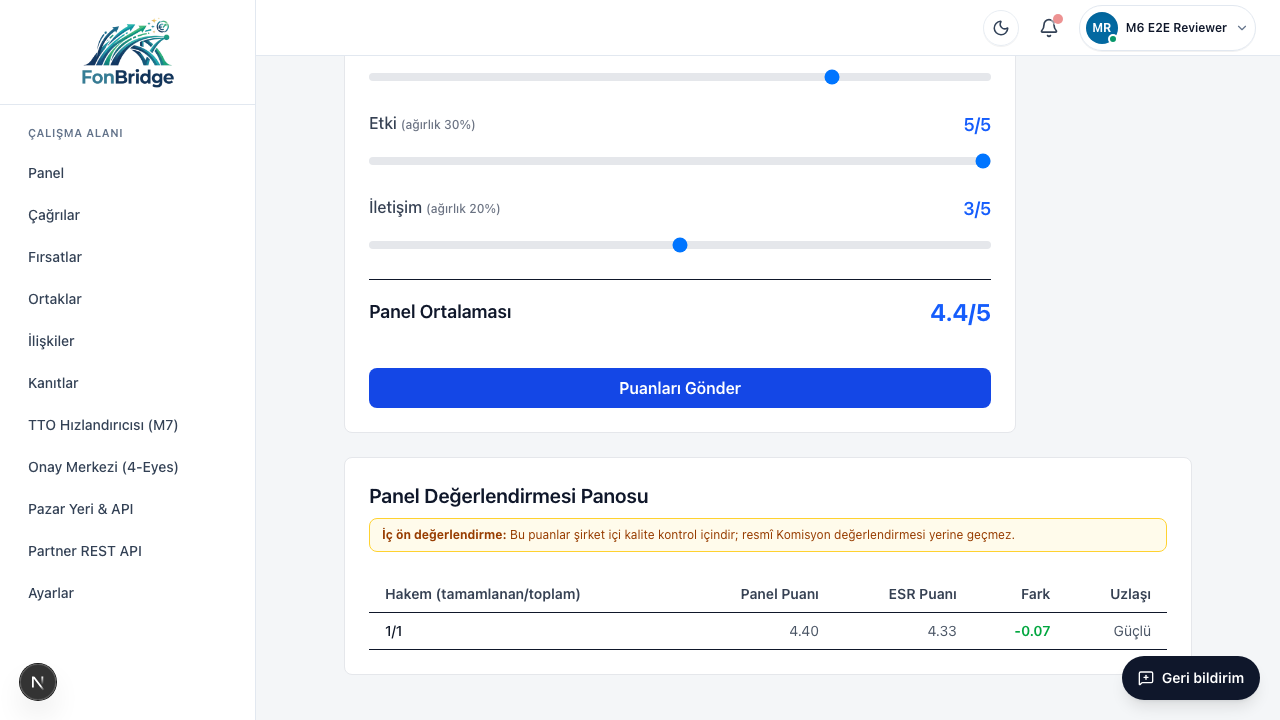
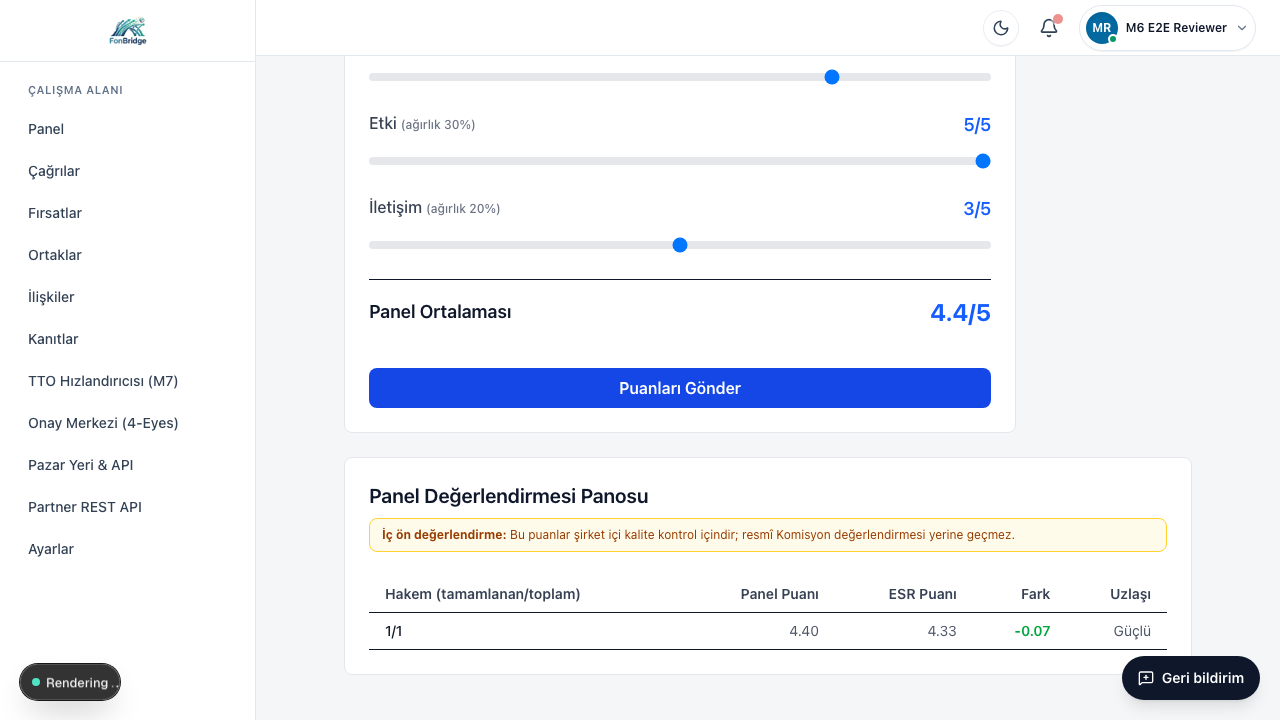
fix(m6-e2e): grant the fixture tenant the plan that opens Evaluator Lens
The M6 panel spec was red before it ever reached a slider: the fixture only
switched ModuleState to ON, but the module gate is two locks — the tenant's
plan has to grant M6 as well. With no Subscription row the tenant fell back to
the entry tier and the page rendered "Evaluator Lens modülü aboneliğinizin
kapsamı dışında" instead of the form.

The card blamed Playwright's fill() on the range input; measured, that claim is
false — the labels move to 5/4/5/3 and the preview average to 4.4/5. No
assertion was touched and no product code changed; only the fixture gained the
`pro` subscription a real tenant has, matching scripts/seed-relationship-e2e.ts,
with the matching delete in --rollback. Seeding twice leaves one row.

Claude-Session: https://claude.ai/code/session_01DQiFyqBT1nCh3CY4pPa34j

diff --git a/scripts/seed-m6-e2e.ts b/scripts/seed-m6-e2e.ts
@@ -56,6 +56,17 @@ export async function seed() {
     },
   });
 
+  // The gate is two locks, not one: the plan has to grant M6 *and* the tenant has to
+  // have switched it on. Without a subscription row the tenant falls back to the
+  // entry tier, and the panel page answers "Evaluator Lens modülü aboneliğinizin
+  // kapsamı dışında" instead of rendering the form. `pro` is the cheapest plan that
+  // grants M6 (src/lib/billing/catalog.ts PLAN_GRANTS).
+  await prisma.subscription.upsert({
+    where: { tenantId: M6_E2E.tenantId },
+    update: { planId: 'pro', status: 'ACTIVE' },
+    create: { tenantId: M6_E2E.tenantId, planId: 'pro', status: 'ACTIVE' },
+  });
+
   // The M6 pages are behind the module gate (src/lib/modules/guard.tsx), so the
   // fixture tenant has to be granted the module the same way a real tenant is —
   // otherwise the test signs in and lands on the "module is closed" screen.
@@ -151,6 +162,7 @@ export async function rollback() {
   await prisma.proposal.deleteMany({ where: { id: M6_E2E.proposalId } });
   await prisma.opportunity.deleteMany({ where: { id: M6_E2E.opportunityId } });
   await prisma.moduleState.deleteMany({ where: { tenantId: M6_E2E.tenantId } });
+  await prisma.subscription.deleteMany({ where: { tenantId: M6_E2E.tenantId } });
   await prisma.membership.deleteMany({ where: { userId: M6_E2E.userId, tenantId: M6_E2E.tenantId } });
   await prisma.user.deleteMany({ where: { id: M6_E2E.userId } });
   await prisma.workspace.deleteMany({ where: { id: M6_E2E.workspaceId } });

diff --git a/docs/agent-results/TASK-MTQZ9767FOZMB-geli-tirici.md b/docs/agent-results/TASK-MTQZ9767FOZMB-geli-tirici.md
@@ -1,0 +1,127 @@
+# TASK-MTQZ9767FOZMB — M6 kriter slider'ı e2e (BE-EN / geli-tirici)
+
+## 1. Ne yapıldı
+
+**Kart bayattı.** Kartın iddiası: "`fill()` sonrası etiket 3/5'te kalıyor". Önce ölçtüm — bu iddia
+DOĞRU DEĞİL. `fill()` React'in kontrollü `input[type=range]`'inde sorunsuz çalışıyor; etiketler
+5/5, 4/5, 5/5, 3/5 oluyor ve önizleme ortalaması 4.4/5'e gidiyor (aşağıdaki 02-form-filled.png).
+
+Testin gerçek kırmızısı **daha erken** bir noktadaydı: form hiç render edilmiyordu, çünkü fixture
+kiracısının **plan hakkı yoktu**. Ekranda çıkan: "Evaluator Lens modülü aboneliğinizin kapsamı
+dışında. Şu planlarda yer alıyor: Pro, Ultra."
+
+Kök neden: M6 kapısı **iki kilit**. `ModuleState = ON` (kiracı açmış) **ve** planın M6'yı veriyor
+olması (`plansGrantingModule('M6')` → pro, ultra). `scripts/seed-m6-e2e.ts` yalnız birincisini
+kuruyordu; `Subscription` satırı hiç yaratılmıyordu, kiracı giriş katmanına düşüyor ve plan kapısı
+sayfayı kapatıyordu.
+
+Düzeltme: fixture'a gerçek bir kiracıdaki gibi `pro`/`ACTIVE` abonelik eklendi ve rollback'e
+karşılığı yazıldı. Desen icat edilmedi — `scripts/seed-relationship-e2e.ts:89` ile aynı.
+**Test gevşetilmedi**; hiçbir assertion değişmedi, spec dosyasına dokunulmadı.
+
+## 2. Kanıt
+
+### 2.1 ÖNCE — kırmızı (düzeltmeden önceki gerçek çıktı)
+
+```
+Running 1 test using 1 worker
+[seed-m6-e2e] ready — tenant=m6-e2e-tenant proposal=m6-e2e-proposal evaluation=m6-e2e-evaluation criteria=4 clearedScores=0
+  ✘  1 [chromium] › tests/e2e/m6-evaluator.spec.ts:48:7 › ... a seated reviewer scores a proposal ... (11.7s)
+
+    Error: expect(locator).toBeVisible() failed
+    Locator: getByRole('main').getByTestId('m6-evaluator-form')
+    Expected: visible
+    Error: element(s) not found
+      > 75 |     await expect(form).toBeVisible();
+```
+
+Aynı koşunun `error-context.md` DOM anlık görüntüsü — kapının kendisi:
+
+```yaml
+- main:
+  - alert:
+    - heading "Bu modül şu anda kullanılamıyor" [level=1]
+    - paragraph: "Evaluator Lens modülü aboneliğinizin kapsamı dışında. Şu planlarda yer alıyor: Pro, Ultra."
+```
+
+### 2.2 SONRA — yeşil (tüm spec)
+
+```
+Running 4 tests using 1 worker
+[seed-m6-e2e] ready — tenant=m6-e2e-tenant proposal=m6-e2e-proposal evaluation=m6-e2e-evaluation criteria=4 clearedScores=0
+  ✓  1 › m6-evaluator.spec.ts:48:7  › a seated reviewer scores a proposal and sees it on the dashboard (1.6s)
+  ✓  2 › m6-evaluator.spec.ts:134:7 › the English locale renders the English M6 copy (1.2s)
+  ✓  3 › m6-evaluator.spec.ts:171:9 › the Evaluator Lens page states it is an internal pre-assessment (tr) (1.5s)
+[seed-m6-e2e] rolled back
+  ✓  4 › m6-evaluator.spec.ts:171:9 › the Evaluator Lens page states it is an internal pre-assessment (en) (1.1s)
+
+  4 passed (6.3s)
+```
+
+### 2.3 Slider'ın gerçekten hareket ettiğinin görsel kanıtı
+
+`docs/agent-results/TASK-MTQ5ZF5ZRU5SM-screenshots/02-form-filled.png` (bu koşuda yeniden yazıldı,
+22:21) — Yenilikçilik **5/5**, Uygulanabilirlik **4/5**, Etki **5/5**, İletişim **3/5**,
+Panel Ortalaması **4.4/5**. Yani `fill()` etiketi 3/5'te bırakmıyor; kart bu noktada yanlıştı.
+(Ekran görüntüsü yolu spec'in içinde sabit `TASK-MTQ5ZF5ZRU5SM-screenshots` — değiştirmedim,
+spec'e dokunmama kuralı gereği.)
+
+### 2.4 Idempotency (additive fixture — iki kez koşma kanıtı)
+
+```
+$ npx tsx scripts/seed-m6-e2e.ts && npx tsx scripts/seed-m6-e2e.ts
+[seed-m6-e2e] ready — tenant=m6-e2e-tenant ... criteria=4 clearedScores=0
+[seed-m6-e2e] ready — tenant=m6-e2e-tenant ... criteria=4 clearedScores=0
+after 2x seed -> subscription: pro ACTIVE | moduleStates: 1 | criteria: 4
+
+$ npx tsx scripts/seed-m6-e2e.ts --rollback
+[seed-m6-e2e] rolled back
+after rollback -> tenant rows: 0 | subscription rows: 0
+```
+
+İki kez koşmak satır çoğaltmıyor; geri-alma yolu (`--rollback`) eklenen aboneliği de temizliyor.
+
+### 2.5 Kapılar
+
+```
+$ pnpm typecheck
+$ tsc --noEmit        # (çıktı yok = temiz)
+
+$ npx eslint scripts/seed-m6-e2e.ts tests/e2e/m6-evaluator.spec.ts src/modules/m6
+                      # (çıktı yok = temiz)
+```
+
+## 3. Değişen dosyalar
+
+- `scripts/seed-m6-e2e.ts` — `Subscription` (`pro`/`ACTIVE`) upsert'ü + rollback'te karşılığı
+  (`prisma.subscription.deleteMany`). Toplam +12 satır, başka hiçbir şey değişmedi.
+
+Dokunulmayan (kasıtlı): `tests/e2e/m6-evaluator.spec.ts` (tek assertion bile gevşetilmedi),
+`src/modules/m6/**` (ürün kodunda hata yoktu — slider doğru çalışıyor).
+
+## 4. Riskler
+
+- Fixture artık `Plan` kataloğundaki `pro` id'sine bağlı. `pro` yeniden adlandırılır ya da M6'yı
+  vermeyi bırakırsa test yine kapıda durur — ama kırmızı mesajı doğrudan sebebi söylüyor.
+- Test yalnız `m6-e2e-tenant` kiracısının aboneliğini yazıyor/siliyor; `demo-tenant` ya da başka
+  bir kiracıya dokunmuyor, yıkıcı işlem yok.
+- e2e'yi mevcut 3000 dev sunucusunda koşarken `E2E_BASE_URL=http://localhost:3000/tr/giris`
+  kullanmak zorunda kaldım — sebebi §5'teki başkasına ait hata.
+
+## 5. Başka kartlara ait, düzeltmediğim kusurlar (yalnız bildirim)
+
+- **`src/app/[locale]/admin/blog/actions.ts:32`** (ve `client.tsx:51-52`) — blog kaydının
+  varsayılan görseli `https://images.unsplash.com/...`; `next.config.ts` içinde `images` alanı hiç
+  yok, dolayısıyla bu hostname allowlist'te değil. Sonuç: **`/tr` ana sayfası 500 dönüyor**
+  ("Invalid src prop ... hostname images.unsplash.com is not configured"). Bu, Playwright'ın
+  `webServer.url` sağlık kontrolünü de düşürüyor: `reuseExistingServer` çalışmıyor, Playwright
+  3000'i yeniden başlatmayı deniyor ve `EADDRINUSE` ile ölüyor — yani **tüm e2e kapısı bu tek
+  hata yüzünden kapalı**. Benim dosyam değil, düzeltmedim.
+
+## 6. Sonraki adım
+
+- Yukarıdaki `/tr` 500'ü sahibine gitsin: `next.config.ts`'e `images.remotePatterns` eklemek ya da
+  varsayılan görseli yerel bir asset yapmak. O düzelene kadar e2e koşarken
+  `E2E_BASE_URL=http://localhost:3000/tr/giris` gerekiyor.
+- Diğer e2e fixture'ları da aynı iki-kilit hatasını taşıyor olabilir: `ModuleState` yazıp
+  `Subscription` yazmayan seed'ler taranmalı.

diff --git a/.agentspace/memory/agents/geli-tirici/fabrika-module-gate-is-two-locks.md b/.agentspace/memory/agents/geli-tirici/fabrika-module-gate-is-two-locks.md
@@ -1,0 +1,30 @@
+---
+name: fabrika-module-gate-is-two-locks
+description: Fabrika modül kapısı iki kilit — ModuleState=ON VE planın modülü vermesi; e2e seed'i yalnız birincisini kurarsa sayfa "aboneliğinizin kapsamı dışında" der
+metadata:
+  type: project
+  updatedAt: 2026-09-07
+---
+
+Fabrika'da bir modül sayfasına ulaşmak için İKİ kilit birden açık olmalı:
+
+1. `ModuleState(tenantId, moduleId) = ON` — kiracı modülü açmış,
+2. kiracının `Subscription.planId`'si o modülü veren bir plan — `plansGrantingModule('M6')` → `pro`, `ultra`.
+
+`Subscription` satırı YOKSA kiracı giriş katmanına düşer ve plan kapısı sayfayı kapatır:
+"<Modül> modülü aboneliğinizin kapsamı dışında. Şu planlarda yer alıyor: Pro, Ultra."
+
+Bu, e2e fixture'larında sessiz bir tuzak: seed `ModuleState`'i yazar, test "element not found"
+ile düşer ve hata **testin kendi adımında değil**, ondan önceki render'da gerçekleşir — bu yüzden
+kart/bug raporu yanlış adımı suçlar (TASK-MTQZ9767FOZMB'de kart "slider fill() çalışmıyor" diyordu,
+gerçek sebep buydu; slider sapasağlamdı).
+
+Doğru desen (icat etme, kopyala): `scripts/seed-relationship-e2e.ts` — tenant upsert'ünün hemen
+ardından `prisma.subscription.upsert({ where:{tenantId}, update:{planId:'pro',status:'ACTIVE'},
+create:{...} })`, ve rollback'e `subscription.deleteMany({ where:{tenantId} })`.
+
+Teşhis kısayolu: Playwright fail'inde `test-results/<...>/error-context.md` içindeki YAML DOM
+anlık görüntüsünü oku — `main > alert > heading "Bu modül şu anda kullanılamıyor"` görüyorsan
+sorun testte değil, fixture'ın hak setinde.
+
+Bkz. [[fabrika-e2e-gate-blocked-by-landing-page-500]]

diff --git a/.agentspace/memory/agents/geli-tirici/fabrika-e2e-gate-blocked-by-landing-page-500.md b/.agentspace/memory/agents/geli-tirici/fabrika-e2e-gate-blocked-by-landing-page-500.md
@@ -1,0 +1,25 @@
+---
+name: fabrika-e2e-gate-blocked-by-landing-page-500
+description: Playwright webServer sağlık kontrolü / (ana sayfa) üzerinden yapılır — ana sayfa 500 dönerse reuseExistingServer çalışmaz ve tüm e2e EADDRINUSE ile ölür; E2E_BASE_URL'i sağlıklı bir yola çevir
+metadata:
+  type: project
+  updatedAt: 2026-09-07
+---
+
+Fabrika'da `playwright.config.ts` → `webServer.url = E2E_BASE_URL ?? http://localhost:3000`.
+Playwright bu URL'i çeker, **yönlendirmeleri izler** ve >=400 görürse sunucuyu "hazır değil"
+sayar. `/` → 307 → `/tr`; `/tr` 500 dönüyorsa `reuseExistingServer: true` devreye girmez,
+Playwright kendi dev sunucusunu başlatmaya çalışır ve zaten dolu portta
+`EADDRINUSE :::3000` ile ölür. Belirti e2e'ye benzemez, ama sebep tek bir kırık SAYFADIR.
+
+Geçici çözüm (spec'e dokunmadan): sağlıklı bir yolu base olarak ver —
+`E2E_BASE_URL=http://localhost:3000/tr/giris npx playwright test ...`.
+`page.goto('/tr/...')` baş eğik-çizgiyle mutlak yol olduğu için baseURL'in path kısmı yok sayılır;
+yalnız origin kullanılır, dolayısıyla testler değişmeden koşar.
+
+2026-09-07 itibarıyla `/tr`'yi 500 yapan şey: `src/app/[locale]/admin/blog/actions.ts:32`
+varsayılan görseli `https://images.unsplash.com/...` ve `next.config.ts` içinde `images`
+allowlist'i hiç yok → next/image "Invalid src prop ... hostname not configured".
+Bunu düzeltmeden önce hâlâ orada mı diye DOĞRULA (curl -o /dev/null -w '%{http_code}' /tr).
+
+Bkz. [[fabrika-module-gate-is-two-locks]]
